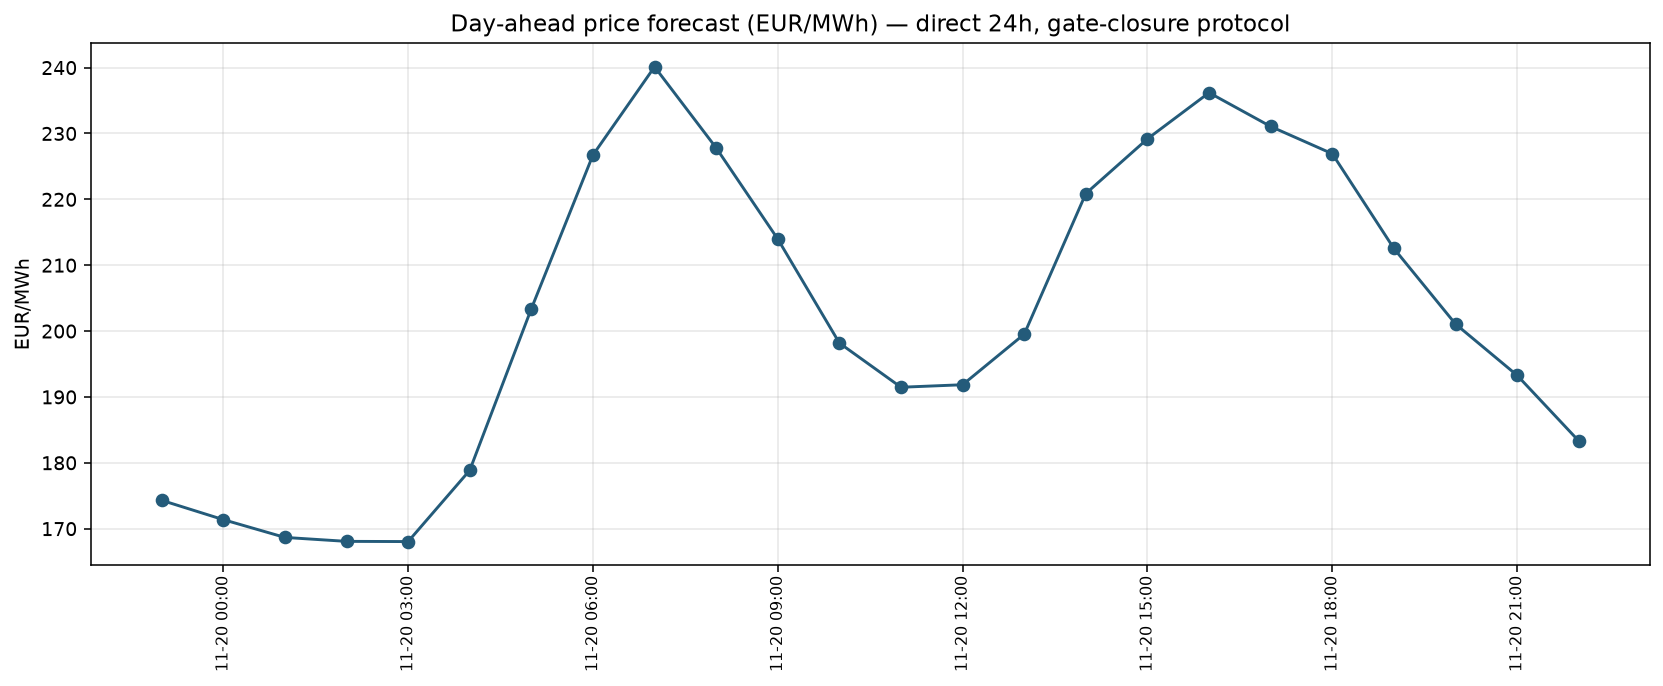
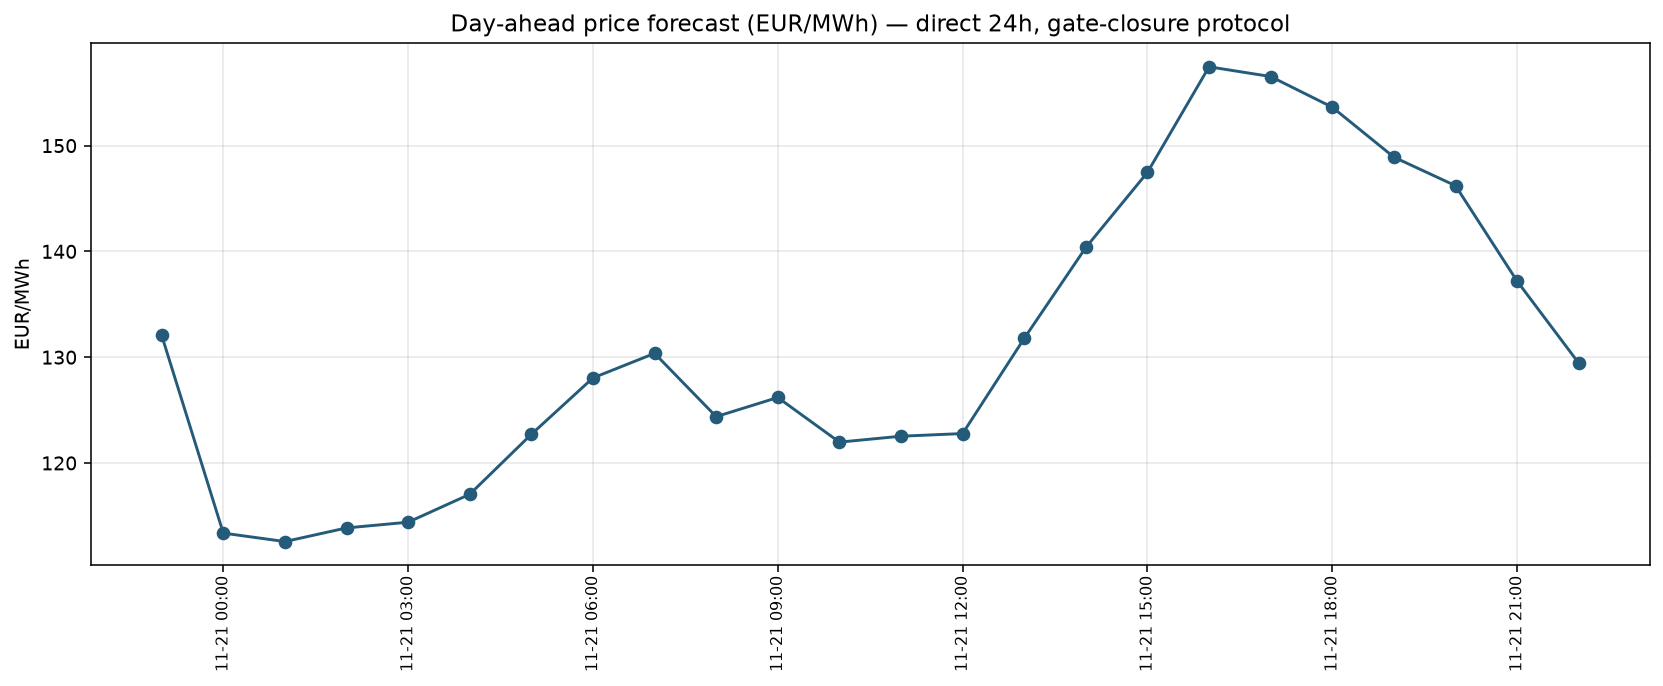
chore: daily forecast 2026-11-20

diff --git a/README.md b/README.md
@@ -61,7 +61,7 @@ Entry points: `scripts/run_daily_forecast.py` (live), `scripts/run_rolling_eval.
 
 ## 5. Results
 
-_Auto-generated by `scripts/run_ablation.py` / `scripts/run_rolling_eval.py` - last update 2026-11-19 10:02 UTC._
+_Auto-generated by `scripts/run_ablation.py` / `scripts/run_rolling_eval.py` - last update 2026-11-20 10:02 UTC._
 
 ### 5.1 Backtest ablation (gate-closure protocol)
 
@@ -179,9 +179,9 @@ Code: MIT. Market data remain under their original terms. SMARD-related series: 
 
 ## Live daily forecast
 
-**Generated (UTC):** 2026-11-19 10:00  
+**Generated (UTC):** 2026-11-20 09:57  
 **Based on data up to (UTC):** 2026-11-19 22:00  
-**Forecast horizon (UTC):** 2026-11-19 23:00 to 2026-11-20 22:00  
+**Forecast horizon (UTC):** 2026-11-20 23:00 to 2026-11-21 22:00  
 **Protocol:** gate-closure features (lags >= 24 h, complete-day context) + external_shift = 24 + direct 24h + shrunk hourly bias correction
 
 ### Forecast chart
@@ -192,30 +192,30 @@ Code: MIT. Market data remain under their original terms. SMARD-related series: 
 
 | Hour (UTC) | Forecast (EUR/MWh) | Bias |
 |------------|--------------------|------|
-| 2026-11-19 23:00 | 174.30 | 0.00 |
-| 2026-11-20 00:00 | 171.37 | 0.00 |
-| 2026-11-20 01:00 | 168.67 | 0.00 |
-| 2026-11-20 02:00 | 168.07 | 0.00 |
-| 2026-11-20 03:00 | 168.04 | 0.00 |
-| 2026-11-20 04:00 | 178.86 | 0.00 |
-| 2026-11-20 05:00 | 203.39 | 0.00 |
-| 2026-11-20 06:00 | 226.73 | 0.00 |
-| 2026-11-20 07:00 | 240.12 | 0.00 |
-| 2026-11-20 08:00 | 227.81 | 0.00 |
-| 2026-11-20 09:00 | 213.97 | 0.00 |
-| 2026-11-20 10:00 | 198.18 | 0.00 |
-| 2026-11-20 11:00 | 191.47 | 0.00 |
-| 2026-11-20 12:00 | 191.85 | 0.00 |
-| 2026-11-20 13:00 | 199.53 | 0.00 |
-| 2026-11-20 14:00 | 220.88 | 0.00 |
-| 2026-11-20 15:00 | 229.18 | 0.00 |
-| 2026-11-20 16:00 | 236.19 | 0.00 |
-| 2026-11-20 17:00 | 231.06 | 0.00 |
-| 2026-11-20 18:00 | 226.92 | 0.00 |
-| 2026-11-20 19:00 | 212.54 | 0.00 |
-| 2026-11-20 20:00 | 201.07 | 0.00 |
-| 2026-11-20 21:00 | 193.28 | 0.00 |
-| 2026-11-20 22:00 | 183.32 | 0.00 |
+| 2026-11-20 23:00 | 132.06 | 0.00 |
+| 2026-11-21 00:00 | 113.37 | 0.00 |
+| 2026-11-21 01:00 | 112.57 | 0.00 |
+| 2026-11-21 02:00 | 113.86 | 0.00 |
+| 2026-11-21 03:00 | 114.40 | 0.00 |
+| 2026-11-21 04:00 | 117.04 | 0.00 |
+| 2026-11-21 05:00 | 122.71 | 0.00 |
+| 2026-11-21 06:00 | 128.04 | 0.00 |
+| 2026-11-21 07:00 | 130.36 | 0.00 |
+| 2026-11-21 08:00 | 124.38 | 0.00 |
+| 2026-11-21 09:00 | 126.19 | 0.00 |
+| 2026-11-21 10:00 | 121.97 | 0.00 |
+| 2026-11-21 11:00 | 122.53 | 0.00 |
+| 2026-11-21 12:00 | 122.78 | 0.00 |
+| 2026-11-21 13:00 | 131.78 | 0.00 |
+| 2026-11-21 14:00 | 140.37 | 0.00 |
+| 2026-11-21 15:00 | 147.47 | 0.00 |
+| 2026-11-21 16:00 | 157.45 | 0.00 |
+| 2026-11-21 17:00 | 156.53 | 0.00 |
+| 2026-11-21 18:00 | 153.63 | 0.00 |
+| 2026-11-21 19:00 | 148.91 | 0.00 |
+| 2026-11-21 20:00 | 146.21 | 0.00 |
+| 2026-11-21 21:00 | 137.19 | 0.00 |
+| 2026-11-21 22:00 | 129.44 | 0.00 |
 
 ### Previous forecasts vs realized prices
 
